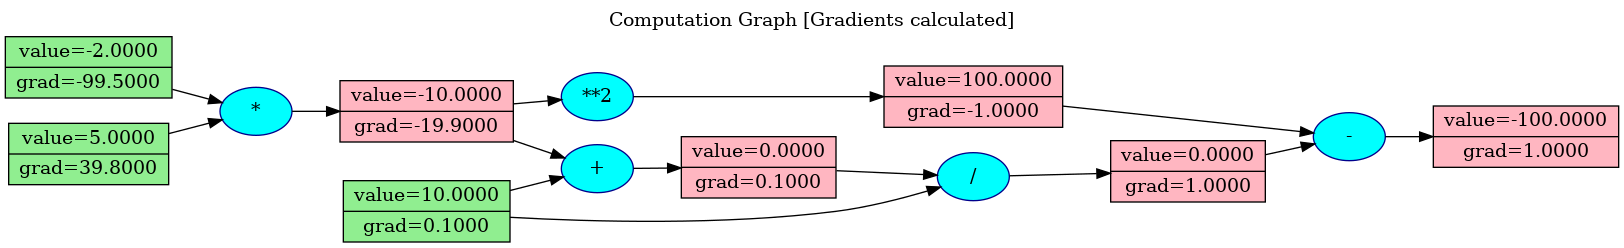
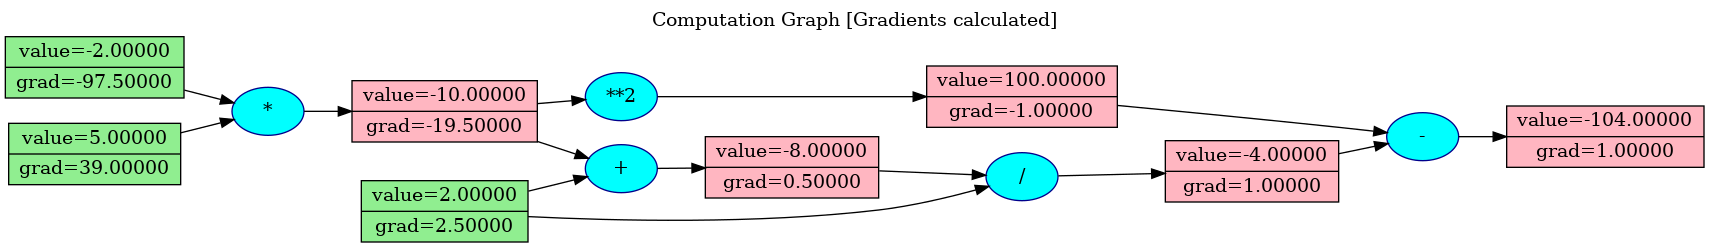
Added reset grads

diff --git a/tensor.py b/tensor.py
@@ -1,7 +1,12 @@
 class Tensor:
     
-    def __init__(self, value, operand=(), operation=None, leaf=True):
-        self.value = float(value)
+    def __init__(self, 
+                 value, 
+                 operand=(), 
+                 operation=None, 
+                 leaf=True):
+        
+        self.value = value
         self.grad = 0
         self.operand = operand
         self.operation = operation
@@ -49,13 +54,13 @@ class Tensor:
         return out
     
     def __pow__(self, power):
-        out = Tensor(self.value **power, operand=(self, ), operation=f'**{power}', leaf=False)
+        out = Tensor(self.value**power, operand=(self, ), operation=f'**{power}', leaf=False)
         def pow_grad_fxn():
-            self.grad += power * self.value ** (power - 1)
+            self.grad += power * (self.value ** (power - 1))
         
         out.grad_fxn = pow_grad_fxn
         return out    
-        
+            
     def backward(self):
         sorted, visited = [], set()
         
@@ -70,11 +75,15 @@ class Tensor:
         for node in reversed(sorted):
             node.gradients_calculated = True
             node.grad_fxn()
-    
-
-def main():
-    pass
-    
-    
-if __name__ == "__main__":
-    main()
+            
+    def reset_grads(self, ):
+        visited = set()
+        
+        def dfs(node):
+            if node not in visited:
+                visited.add(node)
+                node.grad = 0.0
+                for v in node.operand:
+                    dfs(v) 
+                    
+        dfs(self)   

diff --git a/example.py b/example.py
@@ -2,14 +2,14 @@ from tensor import Tensor
 from plot_graph import create_computational_graph
 
 def main():
-    a = Tensor(-2)
-    b = Tensor(5)
-    c = Tensor(10)
+    a = Tensor(-2.0)
+    b = Tensor(5.0)
+    c = Tensor(2)
     d = a * b
     e = c + d
     f = e / c
-    g = f - d ** 2
-
+    g = f - (d ** 2)
+    
     print(g)
     
     create_computational_graph(g, name='forward', render=True)
@@ -18,6 +18,10 @@ def main():
     g.backward()
     
     create_computational_graph(g, name='backward', render=True)
+    
+    g.reset_grads()
+    create_computational_graph(g, name='reset', render=True)
+    
 
 if __name__ == "__main__":
     main()

diff --git a/plot_graph.py b/plot_graph.py
@@ -19,7 +19,7 @@ def create_computational_graph(root, name, render=False):
     
     for n in nodes:
         graph.node(name=str(id(n)), 
-                   label = f"value={n.value:.4f} | grad={n.grad:.4f}", 
+                   label = f"value={n.value:.5f} | grad={n.grad:.5f}", 
                    shape='record', 
                    style='filled', 
                    fillcolor='lightgreen' if n.leaf else 'lightpink')
